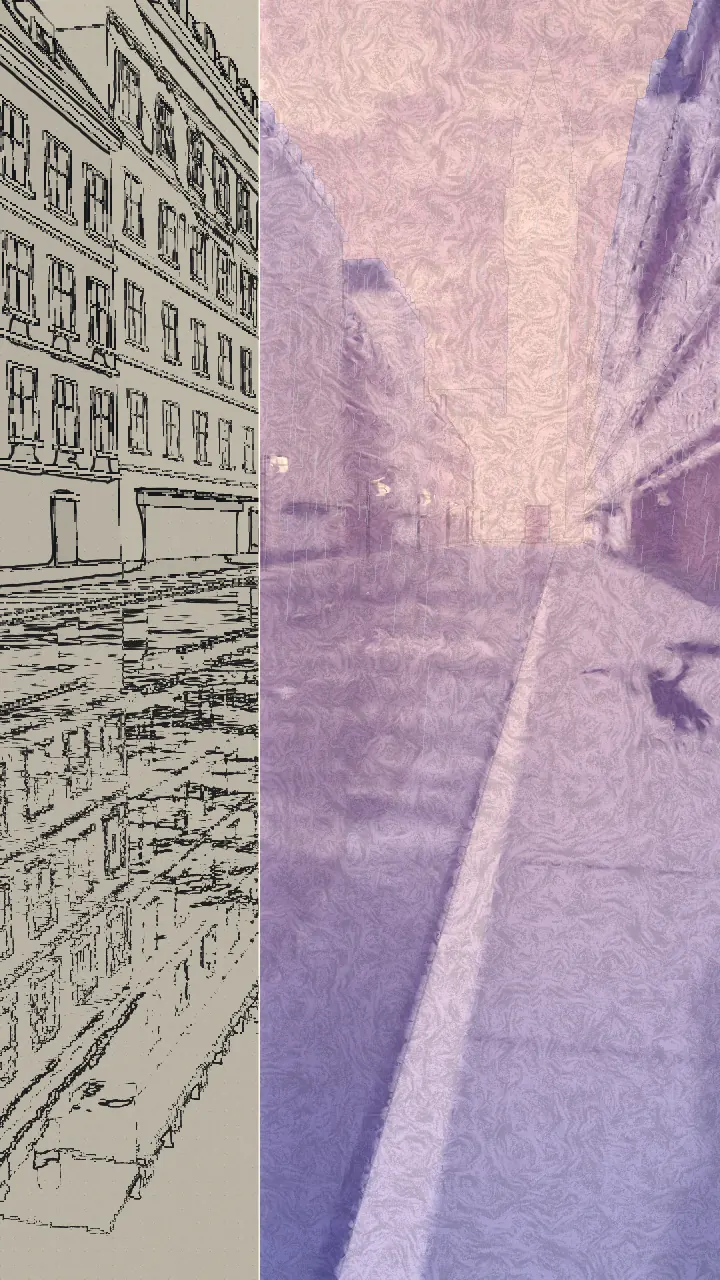
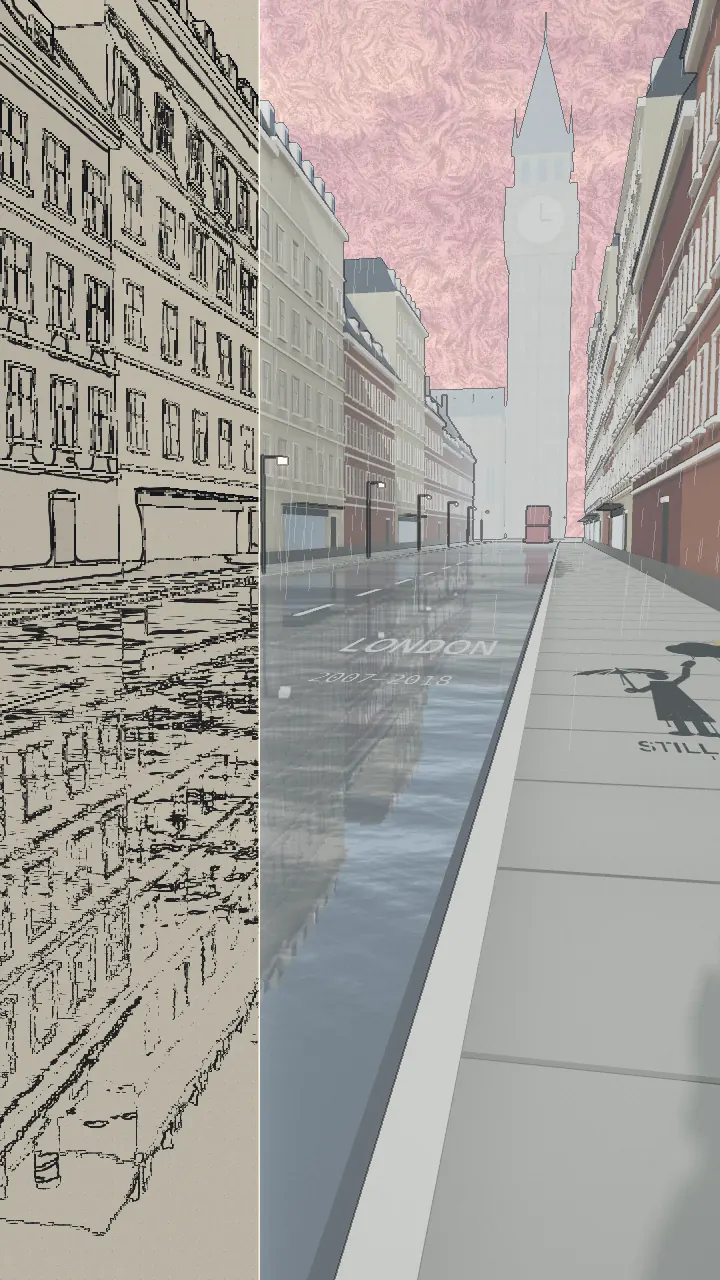
Felt side, quieter: the painter keeps the sky and one thing per city; Vermeer in Delft tiles with a pearl the meter finds
Claude-Session: https://claude.ai/code/session_01JcAdUSaCEjGexocHKPP4qV

diff --git a/js/walk.js b/js/walk.js
@@ -7,12 +7,19 @@ import { ShaderPass } from 'three/addons/postprocessing/ShaderPass.js';
 import { UnrealBloomPass } from 'three/addons/postprocessing/UnrealBloomPass.js';
 import * as SkeletonUtils from 'three/addons/utils/SkeletonUtils.js';
 import { toon, gradientMap } from './kit.js?v=d1954a06';
-import { CITIES, buildCity, vermeerTexture, alpineTexture } from './cities.js?v=3e9c0b28';
+import { CITIES, buildCity, vermeerTexture, alpineTexture } from './cities.js?v=e25fc9d2';
 import { createRoom, ROOM_STATES } from './room.js?v=f2867de1';
 
 export { CITIES, ROOM_STATES };
 
-const Z0 = 6, Z1 = -96;              // the walk: from z0 to z1 along -z
+const Z0 = 6, Z1 = -96;
+// the felt side: the painter has the sky, and one thing in each city — a landmark (a world box [centre x, centre z,
+// half x, half z, top y]) or, where the city already has its own point, nothing more: London's stencil, Delft's tiles, Tokyo's pixel colleague
+const LANDMARK = {
+  lausanne: [40, -215, 22, 22, 27],        // the lakeside castle
+  stockholm: [6, -175, 7.5, 7.5, 98],      // the city hall tower
+  zurich: [0, -180.5, 11.8, 17.5, 66],     // the Grossmünster
+};              // the walk: from z0 to z1 along -z
 const EYE = 1.62;
 const K_LUM = 2600;                  // scene-linear 1.0  →  cd/m²
 const GLARE = 4000;                  // cd/m² above which the measured view hatches amber
@@ -23,7 +30,7 @@ const FinalShader = {
     tDiffuse: { value: null }, tDepth: { value: null }, uNear: { value: 0.1 }, uFar: { value: 9000 }, uInkFelt: { value: 0.6 }, uSplit: { value: 0.5 }, uExpo: { value: 1 }, uK: { value: K_LUM }, uGlare: { value: GLARE },
     uTime: { value: 0 }, uRes: { value: new THREE.Vector2(1, 1) }, uGrade: { value: new THREE.Vector3(1, 1, 1) },
     uFade: { value: 0 }, uFadeCol: { value: new THREE.Color(0xf4efe6) }, uPaper: { value: new THREE.Color(0xf1ede4) }, uInk: { value: new THREE.Color(0x1d2733) },
-    uMeasured: { value: 1 }, uFeltEV: { value: 1 }, uFalse: { value: 0 }, uArt: { value: 0 },
+    uMeasured: { value: 1 }, uFeltEV: { value: 1 }, uFalse: { value: 0 }, uArt: { value: 0 }, uArtGround: { value: 0 }, uArtSky: { value: 1 }, uLand: { value: new THREE.Vector4(0, 0, 0, -1) }, uLandY: { value: -1 },
     uSat: { value: 1.1 }, uCon: { value: 1.0 }, uLift: { value: new THREE.Vector3(0, 0, 0) },
     uSkyTop: { value: new THREE.Color(0x3a74c8) }, uSkyBot: { value: new THREE.Color(0xcfe2f0) }, uSkyMix: { value: 0 }, uOvercast: { value: 0 },
     uInvProj: { value: new THREE.Matrix4() }, uCamWorld: { value: new THREE.Matrix4() }, uSunDir: { value: new THREE.Vector3(0, 1, 0) },
@@ -31,7 +38,7 @@ const FinalShader = {
   },
   vertexShader: /* glsl */`varying vec2 vUv; void main(){ vUv = uv; gl_Position = projectionMatrix * modelViewMatrix * vec4(position,1.0); }`,
   fragmentShader: /* glsl */`
-    uniform sampler2D tDiffuse, tDepth; uniform float uNear, uFar, uInkFelt; uniform float uSplit, uExpo, uK, uGlare, uTime, uFade, uMeasured, uFalse, uArt; uniform vec2 uRes;
+    uniform sampler2D tDiffuse, tDepth; uniform float uNear, uFar, uInkFelt; uniform float uSplit, uExpo, uK, uGlare, uTime, uFade, uMeasured, uFalse, uArt, uArtGround, uArtSky, uLandY; uniform vec4 uLand; uniform vec2 uRes;
     float hash(vec2 p){ p = fract(p*vec2(443.897,441.423)); p += dot(p, p.yx+19.19); return fract((p.x+p.y)*p.x); }
     uniform vec3 uGrade, uFadeCol, uPaper, uInk, uLift, uSkyTop, uSkyBot; uniform float uFeltEV; uniform float uSat, uCon, uSkyMix, uOvercast, uCloudCov, uCloudScale; uniform mat4 uInvProj, uCamWorld; uniform vec3 uSunDir, uCloudLit, uCloudShade; uniform vec2 uWind; varying vec2 vUv;
     float vnoise(vec2 p){ vec2 i=floor(p), f=fract(p); f=f*f*(3.-2.*f); float a=hash(i), b=hash(i+vec2(1,0)), c=hash(i+vec2(0,1)), d=hash(i+vec2(1,1)); return mix(mix(a,b,f.x),mix(c,d,f.x),f.y); }
@@ -82,6 +89,19 @@ const FinalShader = {
       } else if (uArt > 5.5) {   // Hiroshige: no strokes — a woodblock: the grain of the block and the fibres of the paper
         stroke = 0.5 + 0.5 * (vnoise(vec2(sp.x * 0.9, sp.y * 0.05)) - 0.5) + 0.25 * (hash(floor(sp * 0.5)) - 0.5);
       }
+      // how much of the painter reaches the street: the sky always, the street only as much as uArtGround allows
+      float skyA = step(0.99999, texture2D(tDepth, vUv).x) * uArtSky;
+      // the city's landmark (a box in world space, found from depth): the one building the painter is allowed to touch
+      float landA = 0.0;
+      if (uLandY > 0.0 && skyA < 0.5) {
+        vec4 vr = uInvProj * vec4(vUv * 2.0 - 1.0, 1.0, 1.0); vr /= vr.w;
+        vec3 vp = vr.xyz / -vr.z * lin(vUv);
+        vec3 wp = (uCamWorld * vec4(vp, 1.0)).xyz;
+        vec2 q = abs(wp.xz - uLand.xy) / uLand.zw;
+        landA = step(max(q.x, q.y), 1.0) * step(wp.y, uLandY) * step(0.3, wp.y);
+      }
+      float wA = max(max(skyA, landA), uArtGround);
+      hdr = mix(hdrM, hdr, max(max(skyA, landA), step(0.99, uArtGround)));
       vec2 px = vUv*uRes;
       float vig = smoothstep(1.25, 0.35, length((vUv-0.5)*vec2(uRes.x/uRes.y,1.0)*1.05));
       float g = hash(px + fract(uTime*7.13)*91.7) - 0.5;
@@ -110,12 +130,12 @@ const FinalShader = {
           cc += rim * uCloudLit * 0.25 * (1.0 - uOvercast);
           skyCol = mix(skyCol, cc, c);
         }
-        if (uArt > 2.5 && uArt < 3.5 && dir.y > 0.0) {                    // Hodler: clouds in rows parallel to the lake
+        if (uArt > 2.5 && uArt < 3.5 && dir.y > 0.0 && uArtSky > 0.5) {                    // Hodler: clouds in rows parallel to the lake
           float rib = sin(dir.y * 70.0 + fbm(dir.xz / (dir.y + 0.1) * 0.4) * 5.0);
           float cr = smoothstep(0.55, 0.8, rib) * smoothstep(0.02, 0.1, dir.y) * (1.0 - smoothstep(0.35, 0.6, dir.y));
           skyCol = mix(skyCol, mix(vec3(.98,.95,.86), vec3(.78,.80,.88), smoothstep(0.65, 0.8, rib)), cr);
         }
-        if (uArt > 5.5) {                                                  // Hiroshige: the bokashi — Prussian blue printed down from the top
+        if (uArt > 5.5 && uArtSky > 0.5) {                                 // Hiroshige: the bokashi — Prussian blue printed down from the top
           skyCol = mix(skyCol, vec3(.02,.07,.26), smoothstep(0.55, 0.95, vUv.y) * 0.9);
           skyCol = mix(skyCol, vec3(.96,.86,.70), smoothstep(0.35, 0.0, dir.y) * 0.35);   // a warm wash at the horizon
         }
@@ -127,6 +147,7 @@ const FinalShader = {
       felt = felt + uLift * (1.0 - felt);
       felt = mix(felt, felt*vec3(1.03,1.0,0.95), smoothstep(0.55,1.0,dot(felt,vec3(0.33))));
       float ink = edgeAt(vUv, px);
+      vec3 feltPlain = felt; float inkPlain = ink;
       if (uArt > 0.5) {
         float l = dot(felt, vec3(0.2126, 0.7152, 0.0722));
         float st = clamp((stroke - 0.5) * 3.2 + 0.5, 0.0, 1.0);
@@ -164,6 +185,7 @@ const FinalShader = {
         float bristle = uArt < 1.5 ? 0.40 : uArt < 2.5 ? 0.36 : uArt < 3.5 ? 0.16 : uArt < 4.5 ? 0.26 : uArt < 5.5 ? 0.12 : 0.22;
         felt *= (1.0 - bristle * 0.5) + bristle * st;                       // bristle marks, paper grain or woodblock fibre
       }
+      felt = clamp(feltPlain + (felt - feltPlain) * (wA + landA * 0.7), 0.0, 1.0); ink = mix(inkPlain, ink, wA);   // the landmark gets the painter at full strength and then some
       felt = srgb(felt);
       felt = mix(felt, felt*vec3(0.32,0.30,0.34), ink*uInkFelt);
       felt = felt * mix(0.8, 1.0, vig) + g*0.022;
@@ -343,7 +365,7 @@ export async function createWalk({ canvas, assets = './assets/', onProgress = ()
   const cache = new Map();
   let cur = -1, city = null, water = null;
   function getCity(i) {
-    if (!cache.has(i)) { const c = buildCity(i, mats, ctx); c.static = c.root.children[c.root.children.length - 1]; cache.set(i, c); c.bakedP = bakeLight(i, c); roadPaint(i, c); streetArt(i, c); pixelPal(i, c); }
+    if (!cache.has(i)) { const c = buildCity(i, mats, ctx); c.static = c.root.children[c.root.children.length - 1]; cache.set(i, c); c.bakedP = bakeLight(i, c); roadPaint(i, c); streetArt(i, c); pixelPal(i, c); delftTiles(i, c); }
     return cache.get(i);
   }
   /* ray-traced sky light and bounce light, baked once in Blender (bake/bake_city.py) into lm/<city>.webp.
@@ -551,6 +573,82 @@ export async function createWalk({ canvas, assets = './assets/', onProgress = ()
     });
   }
 
+
+  /* Delft: a tile tableau on a canal house, the way Dutch facades carry them — after Vermeer's "Girl with a Pearl Earring"
+     (c. 1665, public domain), redrawn as 26 × 32 pixels, one glazed tile per pixel, inside a ring of Delft blue tiles.
+     The pearl is the one tile that is not paint but a highlight, and the meter finds it. */
+  function delftTiles(i, c) {
+    if (CITIES[i].key !== 'delft') return;
+    const PAL = { '.': '#111412', ',': '#1e2420', B: '#284ea8', b: '#182c68', L: '#688cd4', Y: '#e2b84e', y: '#a07628', F: '#f2d4b2', f: '#d6aa82', s: '#a07052', n: '#563a2c', E: '#281c18', W: '#ece4d4', R: '#c4463c', r: '#8c342e', P: '#f6f8fa', p: '#868c96', J: '#8c642e', j: '#543a1a', K: '#b88c42', C: '#eae4d4' };
+    const G = [
+      '..........................',
+      '..........................',
+      '..........,,,,,...........',
+      '.........bBBBBb...........',
+      '........bBLLBBBb..........',
+      '.......bBLLBBBBBby........',
+      '......bBBLBBBBBBbYy.......',
+      '......bBBBBBBBBbbYYy......',
+      '......BBBBBBBBBbbYYy......',
+      '......bBBBBBBBbbyYYYy.....',
+      '......YYYYYYYYYbbYYYy.....',
+      '......sFFFFffsnbyYYYy.....',
+      '......FFFFFffssnyYYYy.....',
+      '.....sFWEFFfWEsnyYYYy.....',
+      '.....fFFFFFfffsnyYYYYy....',
+      '....sfFFFFFFfssnnyYYYy....',
+      '....ffFFFFFsffsnnyYYYy....',
+      '....sfFFFFFfffsnn.yYYy....',
+      '.....PfFFRRrffsn...yYYy...',
+      '.....pnfFFFffsnn...yYYy...',
+      '......nnfffssnn....yYy....',
+      '.......nssssnn.....yYy....',
+      '.......nsssnn......yYy....',
+      '......CCCsnnCC.....yy.....',
+      '....JCCCCCCCCCJj...y......',
+      '...KJJCCCCCCJJJjj.........',
+      '..KKJJJJJJJJJJJjjj........',
+      '..KJJJJJJJJJJJjjjjj.......',
+      '.KKJJJJJJJJJJJjjjjjj......',
+      '.KJJJJJJJJJJJjjjjjjjj.....',
+      'KKJJJJJJJJJJjjjjjjjjj.....',
+      'KJJJJJJJJJJjjjjjjjjjjj....'
+    ];
+    const NX = 26 + 2, NY = G.length + 2, T = 32, cv = document.createElement('canvas'); cv.width = NX * T; cv.height = NY * T;
+    const g = cv.getContext('2d'); let r = 7; const rnd = () => ((r = (r * 16807) % 2147483647) - 1) / 2147483646;
+    g.fillStyle = '#cfc8b8'; g.fillRect(0, 0, cv.width, cv.height);                     // grout
+    const blue = '#24499a';
+    for (let ty = 0; ty < NY; ty++) for (let tx = 0; tx < NX; tx++) {
+      const x = tx * T + 1.5, y = ty * T + 1.5, w = T - 3, border = tx === 0 || ty === 0 || tx === NX - 1 || ty === NY - 1;
+      const col = new THREE.Color(border ? '#eef0ee' : PAL[G[ty - 1][tx - 1]]).multiplyScalar(0.95 + rnd() * 0.08);
+      g.fillStyle = '#' + col.getHexString(); g.fillRect(x, y, w, w);
+      if (border) {                                                                       // corner "ox-head" quarters and a small star
+        g.fillStyle = blue;
+        for (const [cx, cy, a] of [[x, y, 0], [x + w, y, Math.PI / 2], [x + w, y + w, Math.PI], [x, y + w, -Math.PI / 2]]) { g.beginPath(); g.moveTo(cx, cy); g.arc(cx, cy, w * 0.26, a, a + Math.PI / 2); g.fill(); }
+        g.beginPath(); for (let k = 0; k < 8; k++) { const a = k * Math.PI / 4, rr = k % 2 ? w * 0.09 : w * 0.22; g.lineTo(x + w / 2 + Math.cos(a) * rr, y + w / 2 + Math.sin(a) * rr); } g.fill();
+      }
+      const gl = g.createLinearGradient(x, y, x + w, y + w); gl.addColorStop(0, 'rgba(255,255,255,0.16)'); gl.addColorStop(0.45, 'rgba(255,255,255,0)'); gl.addColorStop(1, 'rgba(0,0,0,0.08)');
+      g.fillStyle = gl; g.fillRect(x, y, w, w);                                           // the glaze, never quite flat
+    }
+    const tex = new THREE.CanvasTexture(cv); tex.colorSpace = THREE.SRGBColorSpace; tex.anisotropy = 8;
+    const S = 0.17, Wd = NX * S, Ht = NY * S;
+    const front = new THREE.MeshToonMaterial({ map: tex, gradientMap: bakedRamp }), edge = new THREE.MeshToonMaterial({ color: 0xcfc8b8, gradientMap: bakedRamp });
+    const tab = new THREE.Mesh(new THREE.BoxGeometry(0.05, Ht, Wd), [edge, front, edge, edge, edge, edge]);
+    tab.castShadow = true; tab.receiveShadow = true;
+    // across the canal, on the left-hand house fronts (the walk looks that way), above the doors, facing the water
+    const z = -26, y = 1.7 + Ht / 2;
+    c.static.updateMatrixWorld(true);
+    const hit = new THREE.Raycaster(new THREE.Vector3(-7.0, y, z), new THREE.Vector3(-1, 0, 0), 0, 6).intersectObject(c.static, true)[0];   // cast from beyond the trees
+    const x = (hit ? hit.point.x : -9.0) + 0.2;      // hung proud of the window frames
+    tab.rotation.y = Math.PI; tab.position.set(x, y, z); c.root.add(tab);
+    // the pearl: not paint but a highlight. This wall is in shade, so the pearl mirrors the clear sky: about 5000 cd/m²,
+    // ten to thirty times the shaded tiles around it — on the measured side it is the brightest thing on this side of the canal
+    let px = 0, py = 0; G.forEach((row, yy) => { const k = row.indexOf('P'); if (k >= 0) { px = k; py = yy; } });
+    const pearl = new THREE.Mesh(new THREE.CircleGeometry(S * 0.42, 16), new THREE.MeshBasicMaterial({ color: new THREE.Color(2.0, 2.02, 2.1), toneMapped: false }));
+    pearl.rotation.y = Math.PI / 2;
+    pearl.position.set(x + 0.03, y + Ht / 2 - (py + 1.5) * S, z + Wd / 2 - (px + 1.5) * S);
+    c.root.add(pearl);
+  }
   function lightFill() { hemi.intensity = hemiBase * (city && city.baked && useBaked ? BAKED_HEMI : 1); }
   function setBaked(v) {
     useBaked = !!v;
@@ -576,6 +674,7 @@ export async function createWalk({ canvas, assets = './assets/', onProgress = ()
     hemi.intensity = 1.15 + 0.25 * warm; hemi.groundColor.set(0x9a8268);
     scene.fog = new THREE.Fog(C.fog[0], C.fog[1], C.fog[2]);
     applyLook(C.look || {}, C.cloudDeck || {}, L, C.grade, C.expo);
+    const LM = LANDMARK[C.key]; fin.uniforms.uLand.value.set(...(LM || [0, 0, 1, 1]).slice(0, 4)); fin.uniforms.uLandY.value = LM ? LM[4] : -1;
     const lk = C.look || {};
     sun.shadow.radius = lk.shadowSoft ?? 1.4;
     if (lk.sunI !== undefined) { sun.intensity = lk.sunI; hemi.intensity = lk.hemiI; }
@@ -665,7 +764,7 @@ export async function createWalk({ canvas, assets = './assets/', onProgress = ()
     let S = scene, cam = camera;
     if (mode === 'room') {
       room.update(dt, state.t, { x: state.lookX, y: state.lookY });
-      const lk = room.look(); applyLook(lk.look, lk.deck, room.L, [1, 1, 1], lk.expo);
+      const lk = room.look(); applyLook(lk.look, lk.deck, room.L, [1, 1, 1], lk.expo); fin.uniforms.uLandY.value = -1;
       fin.uniforms.uFeltEV.value += (Math.pow(2, room.state.ev) - fin.uniforms.uFeltEV.value) * Math.min(1, dt * 8);
       S = room.scene; cam = room.camera;
     } else {
@@ -720,7 +819,7 @@ export async function createWalk({ canvas, assets = './assets/', onProgress = ()
     setSplit(v) { state.split = v; }, setLook(x, y) { state.lookX = x; state.lookY = y; },
     setProbe(u, v) { state.probeAt.set(u, v); },
     setMeasured(on) { state.measured = on; },
-    setFalseColour(on) { state.falseColour = !!on; }, wantGrid(on) { state.wantGrid = !!on; },
+    setFalseColour(on) { state.falseColour = !!on; }, setArtGround(v) { fin.uniforms.uArtGround.value = v; }, setArtSky(v) { fin.uniforms.uArtSky.value = v; }, setLandmark(on) { const C = CITIES[cur], LM = LANDMARK[C.key]; fin.uniforms.uLandY.value = on && LM ? LM[4] : -1; }, wantGrid(on) { state.wantGrid = !!on; },
     fade(v) { fin.uniforms.uFade.value = v; }, setFadeColor(c) { fin.uniforms.uFadeCol.value.set(c); },
     prebuild(i) { getCity(i); },
     setMode(m) { if (m === mode) return; mode = m; if (m === 'walk') { const c = cur; cur = -1; setCity(c); } },

diff --git a/js/cities.js b/js/cities.js
@@ -319,7 +319,7 @@ export function buildCity(i, mats, ctx) {
     const kinds = ['step', 'bell', 'tri', 'step', 'bell'];
     const f = () => ({ canal: true, kind: pick(kinds), W: R(5.2, 7.6), H: R(8.5, 12.5), gh: R(4.5, 6.5), color: pick([0x7d3a28, 0x8e4632, 0x6a3426, 0x9a5a3e, 0x7a4a3a, 0xe6dccb]), shutters: rnd.next() < 0.3 ? pick([0x2f5a46, 0xb3302b]) : null });
     row(b, -1, -9.0, 40, -128, f, 0.05); row(b, 1, 9.0, 40, -128, f, 0.05);
-    for (let z = 30; z > -125; z -= 12.5) { tree(b, I, -4.3, z, 10.5, 0x46653a); tree(b, I, 4.3, z - 6, 10.5, 0x46653a); }
+    for (let z = 30; z > -125; z -= 12.5) { tree(b, z === -20 ? mat4(0, -80, 0) : I, -4.3, z, 10.5, 0x46653a); tree(b, I, 4.3, z - 6, 10.5, 0x46653a); }   // one tree sunk out of sight: a gap for the tile tableau (walk.js); kept in the geometry so the baked lightmap still fits
     for (let z = 22; z > -120; z -= 23) bike(b, I, -4.2, z, 0.25);
     // a stone bridge over the canal
     const BM = mat4(0, 0, -64);
@@ -327,7 +327,6 @@ export function buildCity(i, mats, ctx) {
     geom(b, 'wall', BM, new THREE.TorusGeometry(2.6, 0.45, 6, 18, Math.PI), 0, -1.0, 0, 0x8a5a44, 0, 1, 0.6, 9.2);
     box(b, 'trim', BM, 0, 0.95, 2.0, 8.6, 0.5, 0.2, 0xd8d1c4); box(b, 'trim', BM, 0, 0.95, -2.0, 8.6, 0.5, 0.2, 0xd8d1c4);
     delftHall(b, 0, -180);
-    root.add(poster(ctx.vermeer, 3.2, 4.2, 8.93, 5.6, -46, -Math.PI / 2));
   }
 
   if (key === 'lausanne') {

diff --git a/index.html b/index.html
@@ -586,7 +586,7 @@
 
 <script type="importmap">{ "imports": { "three": "./lib/three.module.min.js", "three/addons/": "./lib/addons/" } }</script>
 <script type="module">
-import { createWalk } from './js/walk.js?v=11916225';
+import { createWalk } from './js/walk.js?v=4b32b33c';
 import { createSky } from './js/sky.js?v=62e90914';
 import { PUBS, THEMES } from './js/pubs.js?v=d0ccaa0d';
 
